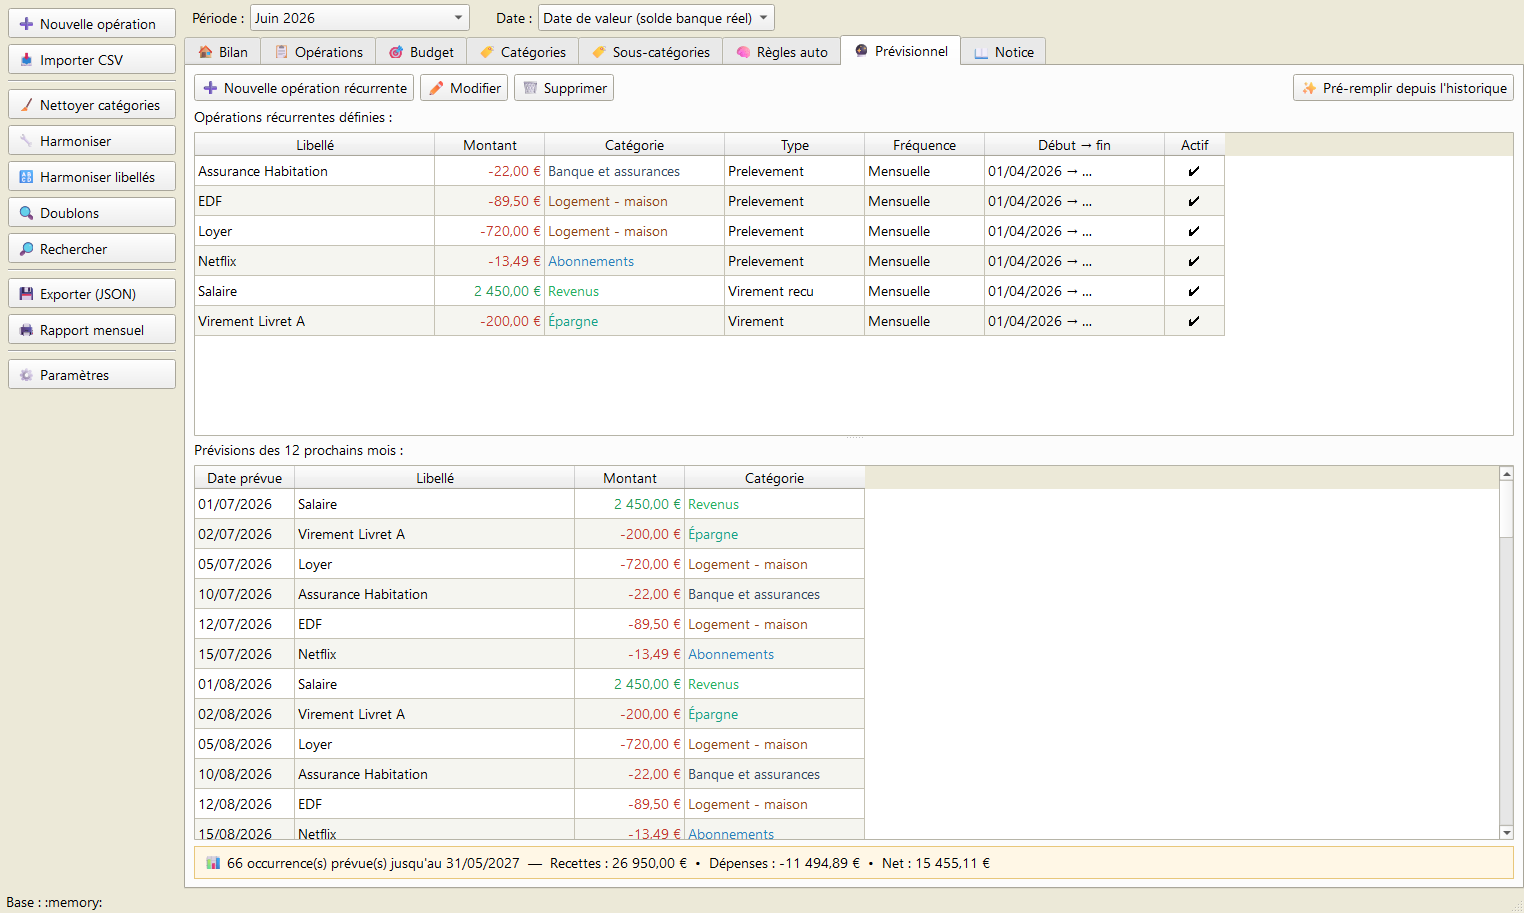
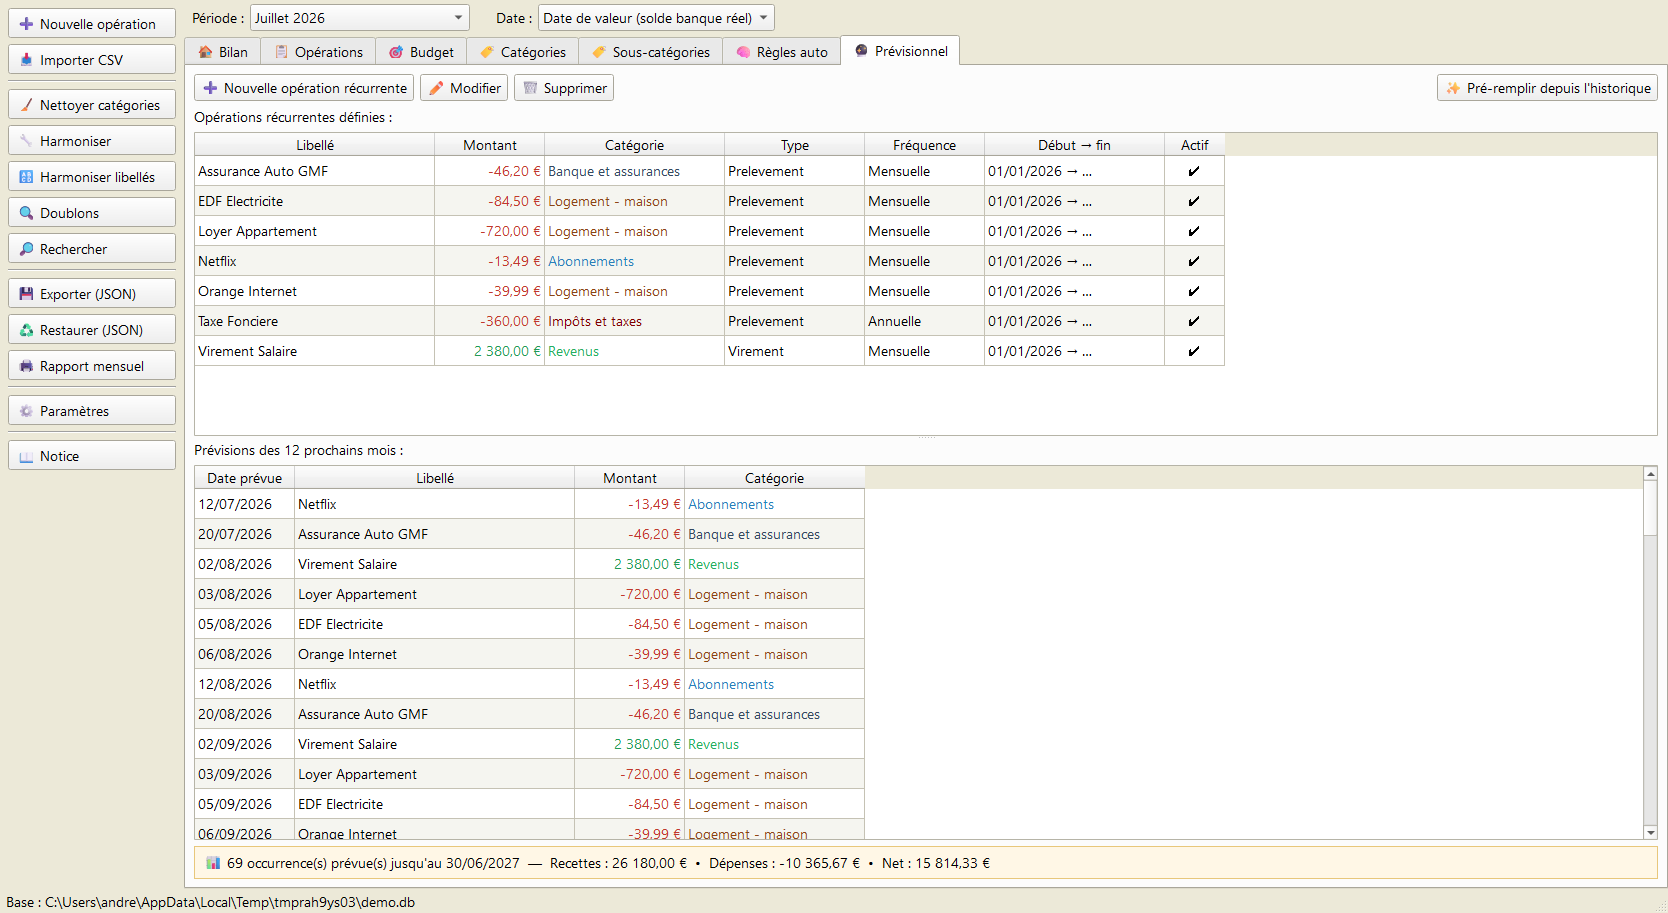
Captures promo 1.12.0 (donnees de demo) + champ de recherche non ecrase
- Les 4 captures du site refaites avec la version 1.12.0 : nouveau menu
  (Restaurer JSON), bandeau encours CB, alertes budget, previsionnel.
  Donnees de demonstration fictives, comme toujours.
- Onglet Operations : largeur minimale du champ de recherche (en fenetre
  etroite, les filtres et le compteur l ecrasaient jusqu a l illisible).

diff --git a/comptesbudget/ui/views/operations.py b/comptesbudget/ui/views/operations.py
@@ -48,6 +48,9 @@ class OperationsView(QWidget):
 
         self.search = QLineEdit()
         self.search.setPlaceholderText("Libellé, montant (45,30), date (12/05/2026)…")
+        # Largeur garantie : sans minimum, les filtres et le compteur de droite
+        # écrasent le champ en fenêtre étroite (il ne restait que « Li… »).
+        self.search.setMinimumWidth(190)
         self.search.textChanged.connect(self.refresh)
         self.search.setMaximumWidth(260)
         toolbar.addWidget(self.search)
